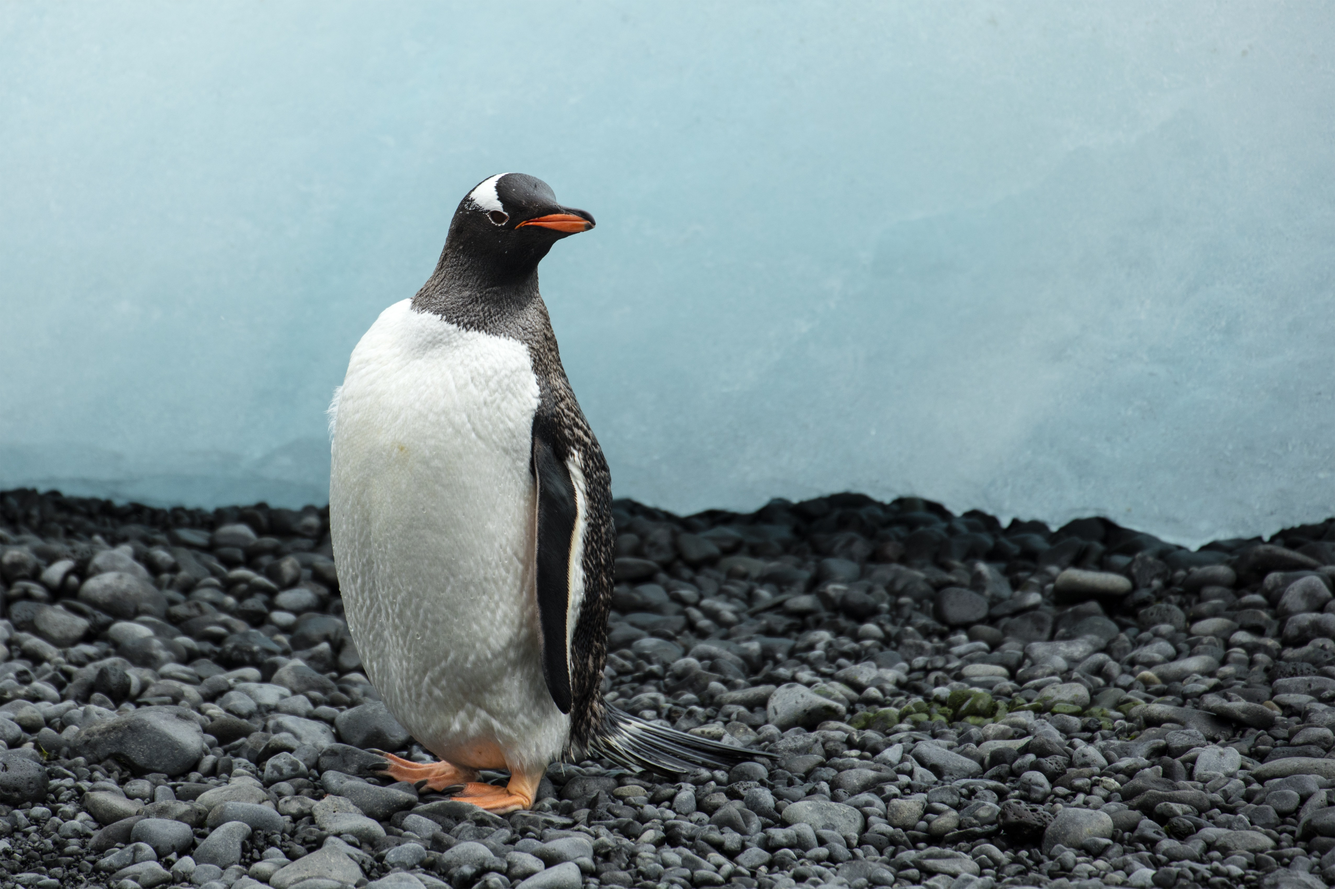
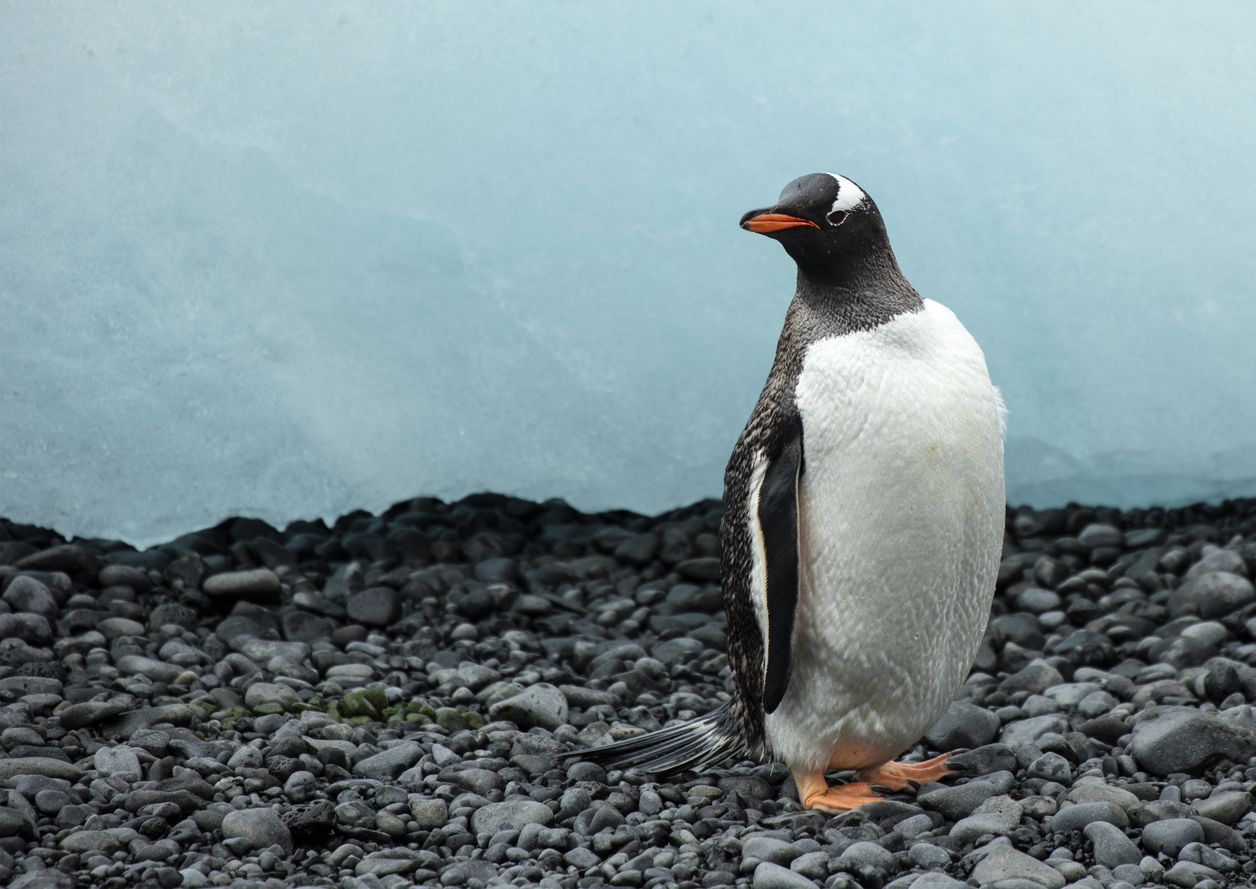
penguin image flip + header text

diff --git a/index.html b/index.html
@@ -27,7 +27,7 @@
   <body>
 
     <h1 class="site-heading text-center text-white d-none d-lg-block">
-      <span class="site-heading-upper text-primary mb-3">I love me some goddamn </span>
+      <span class="site-heading-upper text-primary mb-3">It's time to talk about</span>
       <span class="site-heading-lower">PENGUINS</span>
     </h1>
 

diff --git a/report.html b/report.html
@@ -25,7 +25,7 @@
   <body>
 
   <h1 class="site-heading text-center text-white d-none d-lg-block">
-      <span class="site-heading-upper text-primary mb-3">I love me some goddamn</span>
+      <span class="site-heading-upper text-primary mb-3">It's time to talk about</span>
       <span class="site-heading-lower">PENGUINS</span>
   </h1>
 

diff --git a/map-page.html b/map-page.html
@@ -24,7 +24,7 @@
   <body>
 
   <h1 class="site-heading text-center text-white d-none d-lg-block">
-    <span class="site-heading-upper text-primary mb-3">I love me some goddamn </span>
+    <span class="site-heading-upper text-primary mb-3">It's time to talk about </span>
     <span class="site-heading-lower">PENGUINS</span>
   </h1>
 

diff --git a/penguins.html b/penguins.html
@@ -29,7 +29,7 @@
   <body>
 
   <h1 class="site-heading text-center text-white d-none d-lg-block">
-    <span class="site-heading-upper text-primary mb-3">I love me some goddamn </span>
+    <span class="site-heading-upper text-primary mb-3">It's time to talk about </span>
     <span class="site-heading-lower">PENGUINS</span>
   </h1>
 

diff --git a/slides.html b/slides.html
@@ -24,7 +24,7 @@
   <body>
 
   <h1 class="site-heading text-center text-white d-none d-lg-block">
-    <span class="site-heading-upper text-primary mb-3">I love me some goddamn </span>
+    <span class="site-heading-upper text-primary mb-3">It's time to talk about </span>
     <span class="site-heading-lower">PENGUINS</span>
   </h1>
 
